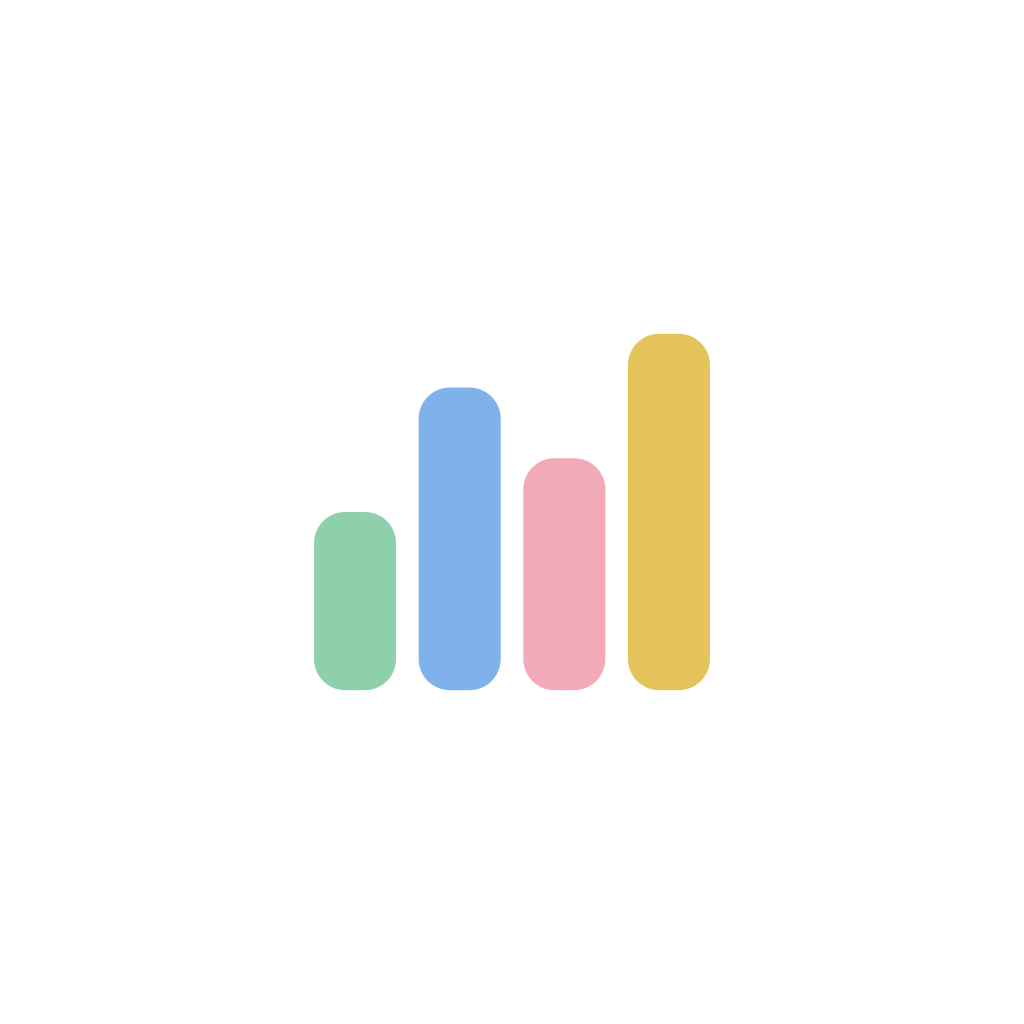
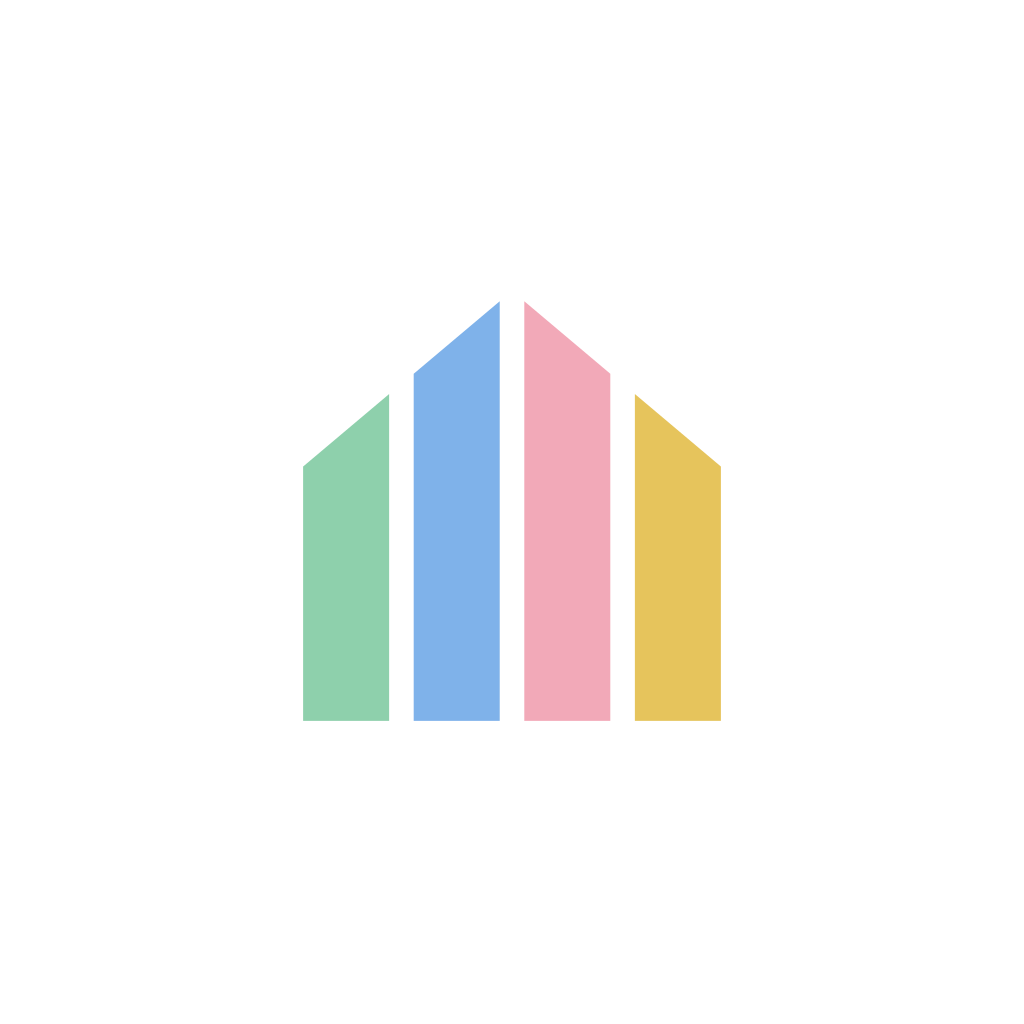
New mark, sign-in page on the brand, and a dark theme
- The mark is now a house drawn by four chart bars, on the brand ink. App
  icons (iOS, Android, desktop, favicon, maskable) are regenerated from it.
- The sign-in page pairs an ink panel carrying the mark with the form.
- A dark theme joins Light and Indigo in Settings ("Apparence"); the status
  bar and the page behind the app follow it.

Claude-Session: https://claude.ai/code/session_01UUspsmLG8McrytzRL6rZ1A

Changed region(s): [[0.2812, 0.2812, 0.7188, 0.7188]]

diff --git a/src/app/welcome.tsx b/src/app/welcome.tsx
@@ -8,9 +8,10 @@ import { useT } from '@/i18n';
 import { Button, Notice, TextLink } from '@/ui/controls';
 import { Field } from '@/ui/fields';
 import { useWide } from '@/ui/layout';
-import { Logo } from '@/ui/Logo';
+import { Mark } from '@/ui/Logo';
+import Svg, { Polygon } from 'react-native-svg';
 import { T } from '@/ui/Text';
-import { color, radius, space } from '@/ui/theme';
+import { brand, color, radius, space } from '@/ui/theme';
 
 export default function Welcome() {
   const t = useT();
@@ -62,16 +63,17 @@ export default function Welcome() {
 
   return (
     <KeyboardAvoidingView behavior={Platform.OS === 'ios' ? 'padding' : undefined} style={{ flex: 1, backgroundColor: wide ? color.sunken : color.paper }}>
-      <ScrollView keyboardShouldPersistTaps="handled" contentContainerStyle={{ flexGrow: 1, justifyContent: wide ? 'center' : 'flex-start', alignItems: 'center', paddingTop: insets.top + (wide ? space.xl : 56), paddingBottom: insets.bottom + space.xxl, paddingHorizontal: 20 }}>
-        <View style={{ width: '100%', maxWidth: 420, backgroundColor: color.paper, borderRadius: radius.xl, padding: wide ? 36 : 0, borderWidth: wide ? 1 : 0, borderColor: color.line }}>
-          <Logo size={30} />
-          <T variant="title" style={{ marginTop: space.xl }}>
-            {t('Les comptes de mes locations', 'My rental books')}
-          </T>
-          <T color={color.inkSoft} style={{ marginTop: space.xs }}>
-            {t('Revenus, dépenses, partages et reçus, au même endroit.', 'Income, expenses, splits and receipts, in one place.')}
-          </T>
-          <View style={{ gap: space.lg, marginTop: space.xl }}>
+      <ScrollView
+        keyboardShouldPersistTaps="handled"
+        contentContainerStyle={{ flexGrow: 1, justifyContent: wide ? 'center' : 'flex-start', alignItems: 'center', paddingTop: wide ? insets.top + space.xl : 0, paddingBottom: insets.bottom + space.xxl, paddingHorizontal: wide ? 20 : 0 }}>
+        <View style={{ width: '100%', maxWidth: wide ? 920 : undefined, flexDirection: wide ? 'row' : 'column', backgroundColor: color.paper, borderRadius: wide ? radius.xl : 0, borderWidth: wide ? 1 : 0, borderColor: color.line, overflow: 'hidden' }}>
+          <BrandPanel wide={wide} top={insets.top} />
+          <View style={{ flex: wide ? 1 : undefined, padding: wide ? 44 : 20, paddingTop: wide ? 44 : space.xl, justifyContent: 'center' }}>
+            <T variant="title">{t('Bienvenue', 'Welcome')}</T>
+            <T color={color.inkSoft} style={{ marginTop: space.xs, marginBottom: space.xl }}>
+              {cloudConfigured ? t('Connecte-toi avec ton adresse e-mail.', 'Sign in with your email address.') : t('Découvre l’app avec des données d’exemple.', 'Try the app with sample data.')}
+            </T>
+          <View style={{ gap: space.lg }}>
             {cloudConfigured ? (
               <>
                 <Field label={t('E-mail', 'Email')} value={email} onChangeText={setEmail} autoCapitalize="none" autoComplete="email" keyboardType="email-address" inputMode="email" />
@@ -110,8 +112,43 @@ export default function Welcome() {
             )}
             <Button tone="quiet" label={t('Explorer la démo', 'Explore the demo')} onPress={() => void enterDemo()} />
           </View>
+          </View>
         </View>
       </ScrollView>
     </KeyboardAvoidingView>
+  );
+}
+
+/**
+ * The brand side of the sign-in page, on the ink of the logo: the mark, what
+ * the app is for, and the mark's bars drawn large as a quiet backdrop.
+ */
+function BrandPanel({ wide, top }: { wide: boolean; top: number }) {
+  const t = useT();
+  const onInk = 'rgba(255,255,255,0.68)';
+  return (
+    <View style={{ width: wide ? 400 : undefined, backgroundColor: brand.ink, padding: wide ? 40 : 20, paddingTop: wide ? 40 : top + 28, paddingBottom: wide ? 40 : 28, overflow: 'hidden', minHeight: wide ? 520 : undefined }}>
+      <View style={{ flexDirection: 'row', alignItems: 'center', gap: 12 }}>
+        <Mark size={wide ? 40 : 34} />
+        <T variant="heading" color="#FFFFFF" style={{ fontSize: wide ? 22 : 20 }}>
+          Stayfolio
+        </T>
+      </View>
+      <T variant="hero" color="#FFFFFF" style={{ marginTop: wide ? 56 : 24, fontSize: wide ? 34 : 26, lineHeight: wide ? 40 : 32, maxWidth: 320 }}>
+        {t('Les comptes de mes locations', 'My rental books')}
+      </T>
+      <T color={onInk} style={{ marginTop: space.md, maxWidth: 300 }}>
+        {t('Revenus, dépenses, partages entre associés et reçus, au même endroit.', 'Income, expenses, partner splits and receipts, in one place.')}
+      </T>
+      {wide ? (
+        <View pointerEvents="none" style={{ position: 'absolute', right: -40, bottom: -36, opacity: 0.9 }}>
+          <Svg width={300} height={300} viewBox="0 0 120 120">
+            {['26,54.6 40,42.8 40,96 26,96', '44,39.5 58,27.7 58,96 44,96', '62,27.7 76,39.5 76,96 62,96', '80,42.8 94,54.6 94,96 80,96'].map((points, i) => (
+              <Polygon key={i} points={points} fill={brand.bars[i]} opacity={0.3} />
+            ))}
+          </Svg>
+        </View>
+      ) : null}
+    </View>
   );
 }

diff --git a/src/ui/theme.ts b/src/ui/theme.ts
@@ -5,8 +5,9 @@
  * The look: a white page, thin lines, plenty of air, and soft pastel tints
  * that carry meaning (green = income, rose = expenses, blue = occupancy).
  *
- * Two themes share the same token names:
+ * Three themes share the same token names:
  *   - `pastel` (default): sage, sky, blush and butter on white;
+ *   - `dark`: the same pastels on the ink of the logo, for the evening;
  *   - `indigo`: the same layout with stronger, deeper colours.
  *
  * How switching works: `color` is one shared object. `applyTheme` swaps its
@@ -58,6 +59,8 @@ interface Theme {
     /** Dimmed backdrop behind dialogs. */
     veil: string;
   };
+  /** Light text on dark backgrounds: drives the status bar and the page behind the app. */
+  scheme: 'light' | 'dark';
   /** A soft tint and a stronger shade per property colour. `all` = every property. */
   pigment: Record<string, { tint: string; strong: string }>;
   platform: Record<string, string>;
@@ -96,6 +99,7 @@ const themes = {
       tintNight: '#FDF4D8',
       veil: 'rgba(34,37,42,0.32)',
     },
+    scheme: 'light',
     pigment: {
       indigo: { tint: '#E6F0FB', strong: '#7FB2EA' },
       bissap: { tint: '#FCECEF', strong: '#EE9BAD' },
@@ -138,6 +142,7 @@ const themes = {
       tintNight: '#F6E6EC',
       veil: 'rgba(23,20,58,0.4)',
     },
+    scheme: 'light',
     pigment: {
       indigo: { tint: '#E9E7F7', strong: '#2B2580' },
       bissap: { tint: '#F6E6EC', strong: '#8C1D4F' },
@@ -148,7 +153,53 @@ const themes = {
     },
     platform: { airbnb: '#FF6B8A', booking: '#6C9BFF', direct: '#FFB01F', other: '#B9B6D3' },
   },
+  dark: {
+    color: {
+      ink: '#EDEFF2',
+      inkSoft: '#A5ACB7',
+      inkFaint: '#6D7581',
+      paper: '#141920',
+      surface: '#1C222B',
+      sunken: '#181D25',
+      line: '#262D37',
+      lineStrong: '#36404C',
+      accent: '#8ED0AC',
+      accentInk: '#0F2A1C',
+      positive: '#72D3A2',
+      positiveSoft: '#1B3127',
+      negative: '#F28C9F',
+      negativeSoft: '#3A222A',
+      noticeSoft: '#352F1C',
+      white: '#FFFFFF',
+      whiteSoft: 'rgba(255,255,255,0.14)',
+      selected: '#1F3A2C',
+      onSelected: '#C4EDD6',
+      selectedBorder: '#4F9C75',
+      chartIncome: '#8ED0AC',
+      chartExpense: '#F2A9B8',
+      chartLine: '#7FB2EA',
+      ring: '#7FB2EA',
+      tintIncome: '#1B2D24',
+      tintExpense: '#33232A',
+      tintOccupancy: '#1C2A3A',
+      tintNight: '#322C1B',
+      veil: 'rgba(0,0,0,0.6)',
+    },
+    scheme: 'dark',
+    pigment: {
+      indigo: { tint: '#1C2A3A', strong: '#7FB2EA' },
+      bissap: { tint: '#33232A', strong: '#EE9BAD' },
+      lagoon: { tint: '#1A2E29', strong: '#6CC5A9' },
+      baobab: { tint: '#322C1B', strong: '#E6C45C' },
+      laterite: { tint: '#33281F', strong: '#DDAE84' },
+      all: { tint: '#1E242D', strong: '#8A929D' },
+    },
+    platform: { airbnb: '#F2A9B8', booking: '#8DB9EE', direct: '#EBCB6B', other: '#5D6570' },
+  },
 } satisfies Record<string, Theme>;
+
+/** The logo's own colours: the same in every theme. */
+export const brand = { ink: '#1C2430', bars: ['#8ED0AC', '#7FB2EA', '#F2A9B8', '#E6C45C'] } as const;
 
 export type ThemeName = keyof typeof themes;
 export const themeNames = Object.keys(themes) as ThemeName[];
@@ -164,7 +215,15 @@ export const color: Theme['color'] = { ...active.color };
 export function applyTheme(name: ThemeName): void {
   active = themes[name];
   Object.assign(color, active.color);
+  // On the web, the page behind the app shows while scrolling past the edges.
+  if (typeof document !== 'undefined') {
+    document.body.style.background = active.color.paper;
+    document.querySelector('meta[name="theme-color"]')?.setAttribute('content', active.color.paper);
+  }
 }
+
+/** Whether the active theme is dark. */
+export const isDark = (): boolean => active.scheme === 'dark';
 
 /** Keys a property can pick as its colour. Stored on the property, theme-independent. */
 export const pigmentKeys = ['indigo', 'bissap', 'lagoon', 'baobab', 'laterite'];

diff --git a/src/ui/Logo.tsx b/src/ui/Logo.tsx
@@ -1,25 +1,40 @@
 import { View } from 'react-native';
+import Svg, { Polygon, Rect } from 'react-native-svg';
 
 import { T } from './Text';
-import { color, pigmentDot } from './theme';
+import { brand, color, isDark } from './theme';
 
-/** The mark: four soft bars, like a small chart. */
-export function Logo({ size = 28, withName = true }: { size?: number; withName?: boolean }) {
-  const bars = [
-    { h: 0.5, tint: color.chartIncome },
-    { h: 0.85, tint: color.chartLine },
-    { h: 0.65, tint: color.chartExpense },
-    { h: 1, tint: pigmentDot('baobab') },
-  ];
+/**
+ * The mark: four bars of a chart whose tops, cut at an angle, draw the roof
+ * of a house. On the ink of the brand in every theme. The same drawing is used
+ * for the app icons (scripts in docs/OPERATIONS.md).
+ *
+ * Drawn on a 120 × 120 grid.
+ */
+const BARS = [
+  '26,54.6 40,42.8 40,96 26,96',
+  '44,39.5 58,27.7 58,96 44,96',
+  '62,27.7 76,39.5 76,96 62,96',
+  '80,42.8 94,54.6 94,96 80,96',
+];
+
+export function Mark({ size = 28 }: { size?: number }) {
   return (
-    <View style={{ flexDirection: 'row', alignItems: 'center', gap: 10 }}>
-      <View style={{ height: size, flexDirection: 'row', alignItems: 'flex-end', gap: size * 0.11 }}>
-        {bars.map((b, i) => (
-          <View key={i} style={{ width: size * 0.17, height: size * b.h, borderRadius: size * 0.08, backgroundColor: b.tint }} />
-        ))}
-      </View>
+    <Svg width={size} height={size} viewBox="0 0 120 120" accessibilityElementsHidden importantForAccessibility="no-hide-descendants">
+      <Rect width={120} height={120} rx={28} fill={brand.ink} stroke={isDark() ? color.lineStrong : 'none'} strokeWidth={isDark() ? 2 : 0} />
+      {BARS.map((points, i) => (
+        <Polygon key={i} points={points} fill={brand.bars[i]} />
+      ))}
+    </Svg>
+  );
+}
+
+export function Logo({ size = 28, withName = true }: { size?: number; withName?: boolean }) {
+  return (
+    <View accessible accessibilityLabel="Stayfolio" style={{ flexDirection: 'row', alignItems: 'center', gap: size * 0.36 }}>
+      <Mark size={size} />
       {withName ? (
-        <T variant="heading" style={{ fontSize: size * 0.64, lineHeight: size }}>
+        <T variant="heading" style={{ fontSize: size * 0.62, lineHeight: size, letterSpacing: -0.2 }}>
           Stayfolio
         </T>
       ) : null}

diff --git a/src/app/_layout.tsx b/src/app/_layout.tsx
@@ -12,7 +12,7 @@ import '@/platform/install';
 import { useT } from '@/i18n';
 import { useWide } from '@/ui/layout';
 import { T } from '@/ui/Text';
-import { color, maxWidth, radius, space } from '@/ui/theme';
+import { color, isDark, maxWidth, radius, space } from '@/ui/theme';
 
 SplashScreen.preventAutoHideAsync().catch(() => {});
 
@@ -61,7 +61,7 @@ function Screens() {
     : ({ presentation: 'modal' } as const);
   return (
     <>
-      <StatusBar style="dark" />
+      <StatusBar style={isDark() ? 'light' : 'dark'} />
       <Stack screenOptions={{ headerShown: false, contentStyle: { backgroundColor: color.paper } }}>
         <Stack.Screen name="(tabs)" />
         <Stack.Screen name="welcome" options={{ animation: 'none' }} />
@@ -101,7 +101,7 @@ function ErrorBanner() {
         <T variant="label" color={color.white}>
           {t('Cela n’a pas fonctionné. Vérifie ta connexion et réessaie.', 'That did not work. Check your connection and try again.')}
         </T>
-        <T variant="small" color={color.whiteSoft} numberOfLines={2}>
+        <T variant="small" color={color.white} numberOfLines={2} style={{ opacity: 0.85 }}>
           {error}
         </T>
       </Pressable>

diff --git a/src/ui/charts.tsx b/src/ui/charts.tsx
@@ -23,7 +23,7 @@ export function Ring({ value, size = 64, stroke = 8, tint = color.ring, children
   return (
     <View style={{ width: size, height: size, alignItems: 'center', justifyContent: 'center' }}>
       <Svg width={size} height={size} style={{ position: 'absolute', transform: [{ rotate: '-90deg' }] }}>
-        <Circle cx={size / 2} cy={size / 2} r={r} stroke={color.white} strokeOpacity={0.9} strokeWidth={stroke} fill="none" />
+        <Circle cx={size / 2} cy={size / 2} r={r} stroke={color.whiteSoft} strokeWidth={stroke} fill="none" />
         {shown > 0 ? <Circle cx={size / 2} cy={size / 2} r={r} stroke={tint} strokeWidth={stroke} strokeLinecap="round" strokeDasharray={`${length * shown} ${length}`} fill="none" /> : null}
       </Svg>
       {children}

diff --git a/src/app/settings.tsx b/src/app/settings.tsx
@@ -59,12 +59,13 @@ export default function SettingsScreen() {
       </View>
 
       <View>
-        <Label>{t('Couleurs', 'Colours')}</Label>
+        <Label>{t('Apparence', 'Appearance')}</Label>
         <Choice
           value={theme}
           onChange={setTheme}
           options={[
-            { value: 'pastel' as const, label: 'Pastel', dot: '#8ED0AC' },
+            { value: 'pastel' as const, label: t('Clair', 'Light'), dot: '#8ED0AC' },
+            { value: 'dark' as const, label: t('Sombre', 'Dark'), dot: '#4A5568' },
             { value: 'indigo' as const, label: 'Indigo', dot: '#2B2580' },
           ]}
         />

diff --git a/src/ui/controls.tsx b/src/ui/controls.tsx
@@ -12,7 +12,7 @@ type Tone = 'primary' | 'dark' | 'quiet' | 'danger';
 const toneOf = (tone: Tone): { bg: string; fg: string; border?: string } =>
   ({
     primary: { bg: color.accent, fg: color.accentInk },
-    dark: { bg: color.ink, fg: color.white },
+    dark: { bg: color.ink, fg: color.paper },
     quiet: { bg: 'transparent', fg: color.ink, border: color.lineStrong },
     danger: { bg: 'transparent', fg: color.negative, border: color.negativeSoft },
   })[tone];

diff --git a/docs/ARCHITECTURE.md b/docs/ARCHITECTURE.md
@@ -131,11 +131,19 @@ Figures are shown as pictures wherever that reads faster (`charts.tsx`):
 - `Trend`: the running result over the year.
 - `Breakdown`: where the money goes, or comes from.
 
-Two themes share the same token names: **pastel** (the default) and
-**indigo**. The choice is made in Settings and remembered on the device.
+Three themes share the same token names: **pastel** (the default, light),
+**dark** (the same pastels on the logo's ink) and **indigo**. The choice is made in Settings and remembered on the device.
 Switching swaps the values of the shared `color` object and re-creates the
 screens; components read colours while rendering, never in a top-level
 constant. Adding a theme is one more entry in `themes`.
+
+## The mark
+
+`src/ui/Logo.tsx` draws the mark: four chart bars whose tops, cut at an angle,
+draw a roof, on the brand ink (`brand` in `theme.ts`, the same in every theme).
+The app icons are generated from the same drawing by a small script
+(`sharp`): full-bleed squares for iOS, Android and the maskable web icon,
+a rounded tile for desktop shortcuts and the favicon.
 
 ## Phone and computer layouts (`src/ui/layout.tsx`)
 
